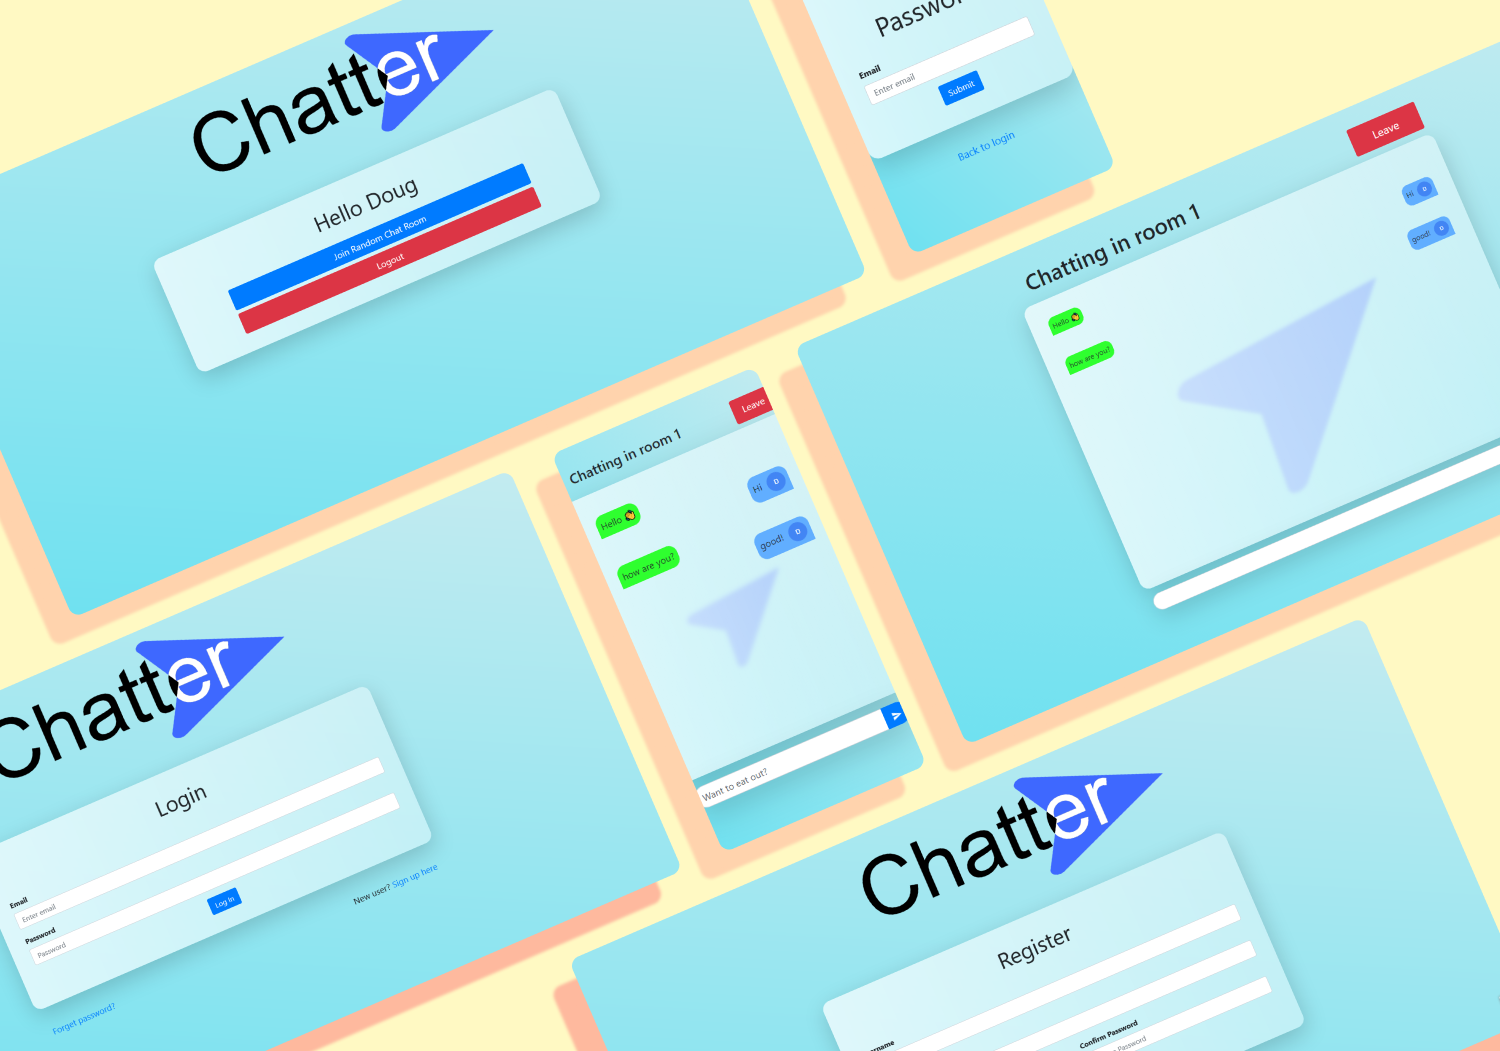
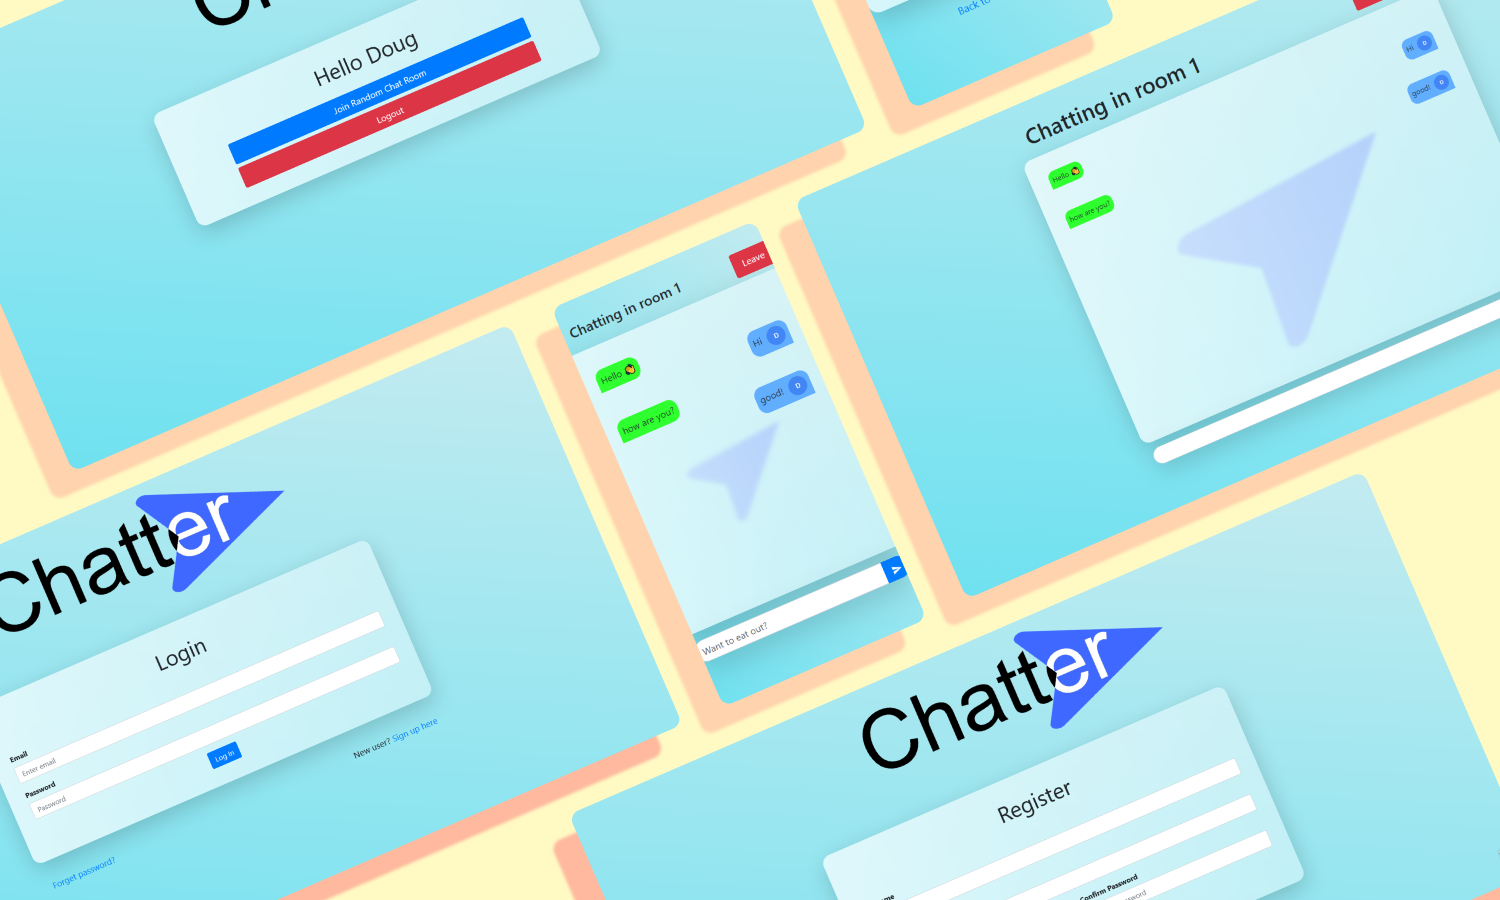
almost finished projects

diff --git a/src/component/home/Projects.tsx b/src/component/home/Projects.tsx
@@ -1,4 +1,5 @@
 import React, {useState, useEffect} from 'react'
+import { Parallax, Background } from 'react-parallax'
 import { VscGithub } from 'react-icons/vsc'
 import { MdWeb } from 'react-icons/md'
 import { FaGamepad } from 'react-icons/fa'
@@ -12,7 +13,12 @@ export const Projects: React.FC = () => {
                 <h2>Projects</h2>
                 <div className="singleProject">
                     <h4>Chatter</h4>
-                    <img alt="chatter screenshots" src={"chatter.png"} />
+                    <Parallax  bgImage={"chatter.png"} bgImageAlt="chatter screenshots" strength={300} style={{width: "70vw"}}>
+                        {/* <Background className="custom-bg">
+                            <img alt="chatter screenshots" src={"chatter.png"} />
+                        </Background> */}
+                        <div style={{height: "44vw"}}></div>
+                    </Parallax>
                     <p>
                         A realtime chat website
                         <br />{'>'} Using React, Firebase, JavaScript
@@ -31,7 +37,12 @@ export const Projects: React.FC = () => {
                 </div>
                 <div className="singleProject">
                     <h4>Django Ecommerce</h4>
-                    <img alt="django screenshots" src={"django.png"} />
+                    <Parallax  bgImage={"django.png"} bgImageAlt="django screenshots" strength={300} style={{width: "70vw"}}>
+                        {/* <Background className="custom-bg">
+                            <img alt="django screenshots" src={"django.png"} />
+                        </Background> */}
+                        <div style={{height: "44vw"}}></div>
+                    </Parallax>
                     <p>
                         An ecommerce website build on Django and Bootstrap with login and shopping cart (connected to Stripe)
                         <br />{'>'} Using Python (Django), Stripe, JavaScript, CSS, HTML, Bootstrap

diff --git a/src/App.tsx b/src/App.tsx
@@ -1,7 +1,9 @@
 import React from 'react'
+import { useState } from 'react'
 import {Routes} from './Routes'
 
 export const App: React.FC = () => {
+
   return (
     <div className="App">
       <Routes />

diff --git a/src/index.css b/src/index.css
@@ -252,6 +252,10 @@ code {
 .endOfProjects {
   padding-bottom: 10vh;
 }
+/* parallax */
+/* .react-parallax-bgimage {
+  transition: 0.1s;
+} */
 /* skills */
 .skills {
   padding-top: 12vh;
